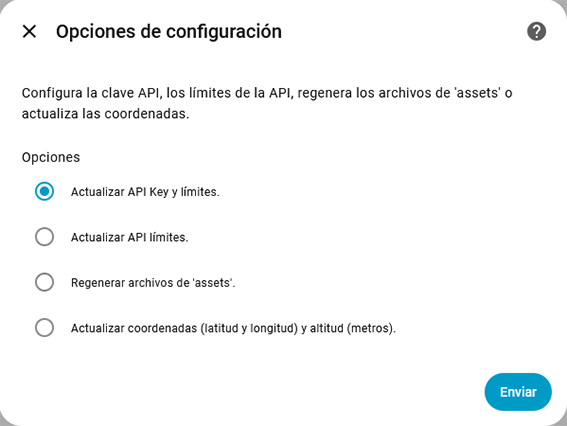
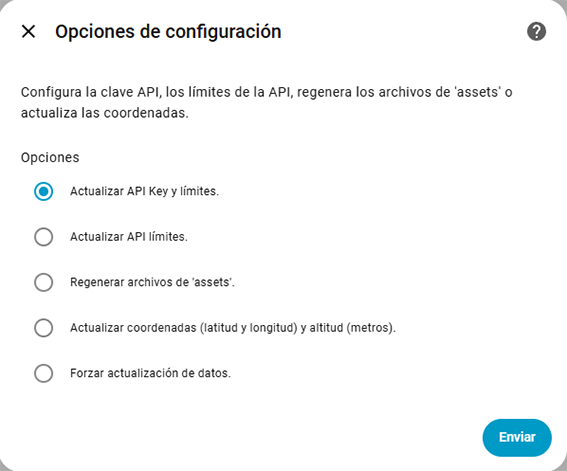
include force data update info at options

diff --git a/README.md b/README.md
@@ -138,6 +138,9 @@ You will see three available options:
 - **Update coordinates and elevation**  
   Change the default station coordinates and elevation that were set during the first setup. So you can use your location coordinates and elevation for more accurate sun and moon data.
 
+- **Force data update**  
+  Force the data update for just one or even for multiple options at a time. Please be aware of your quota limits, each data update will consume an API call. If you force the data update for example for hourly and daily data at the same time ... this means 2 API calls, not just one.
+
 ### Accessing the Options Menu
 
 You can access the Options Menu in two ways, both inside the integration:
